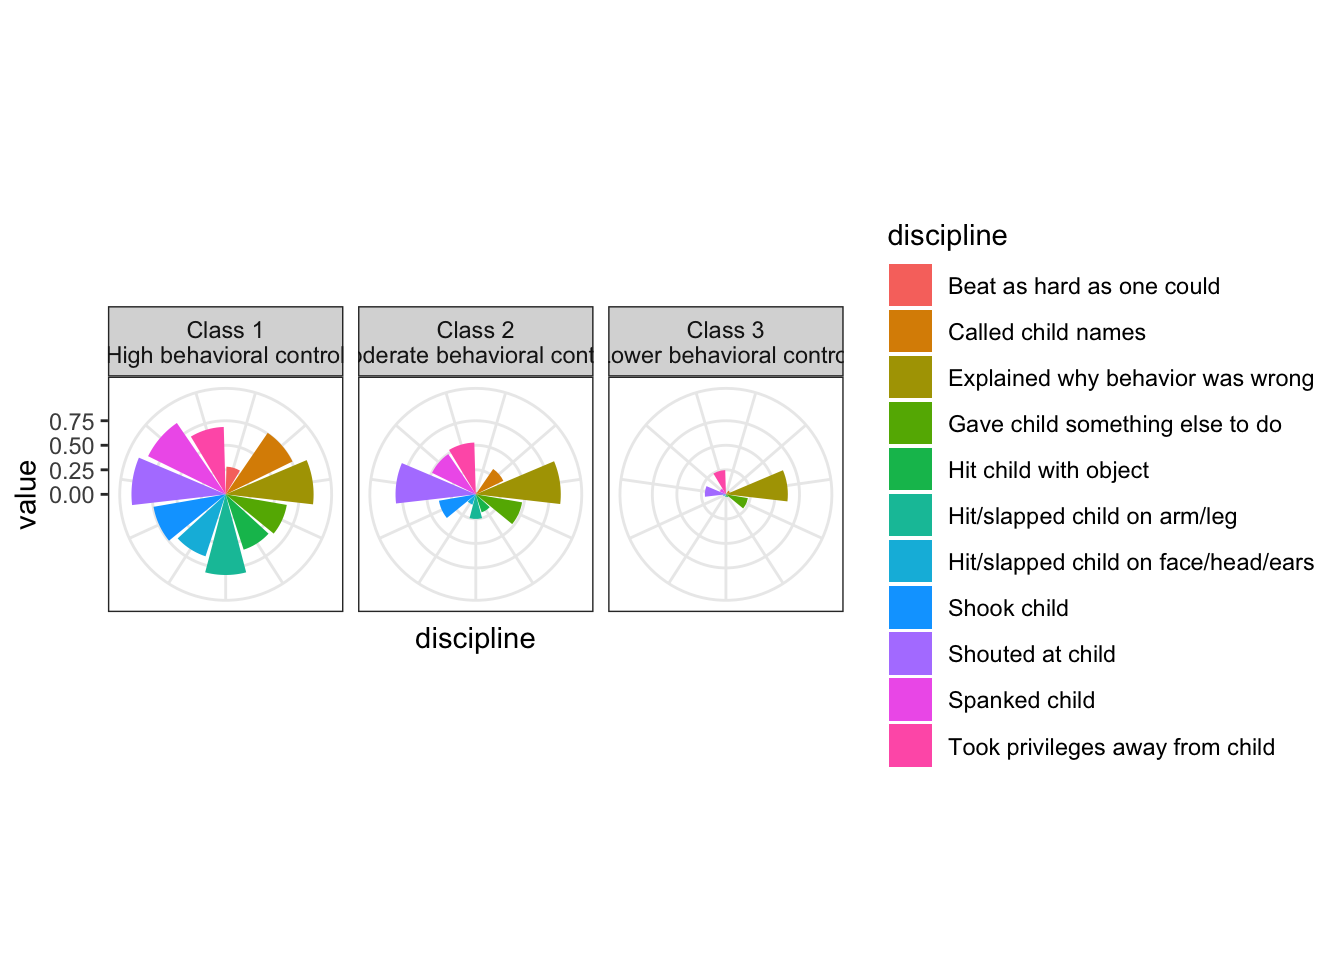
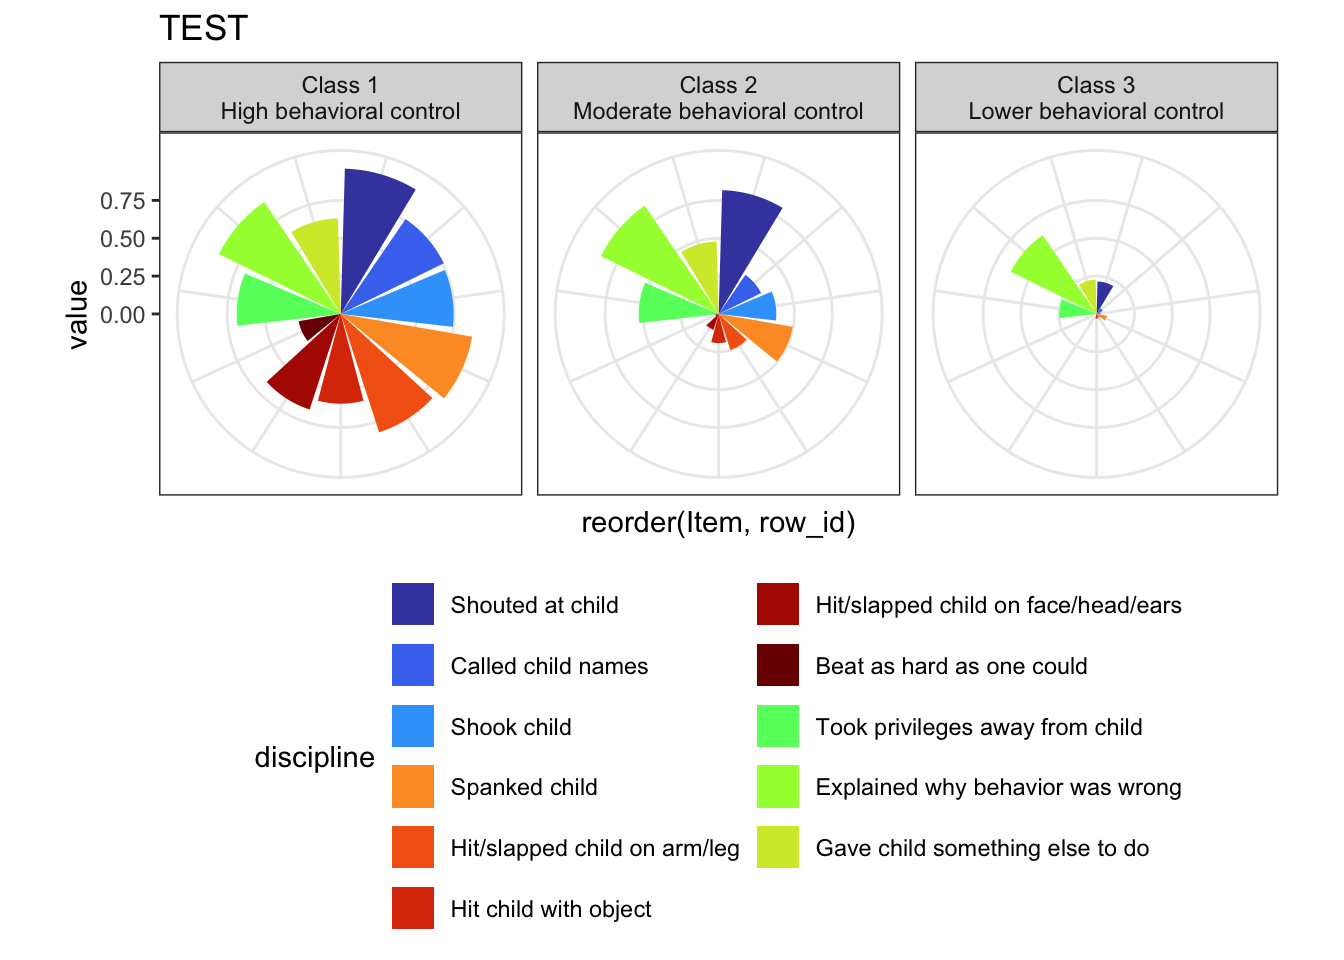
content updates

Changed region(s): [[0.0, 0.0, 0.9688, 0.9688]]

diff --git a/patterns/patterns.html b/patterns/patterns.html
@@ -103,7 +103,7 @@ pre > code.sourceCode > span > a:first-child::before { text-decoration: underlin
 <span id="cb1-2"><a href="#cb1-2" aria-hidden="true" tabindex="-1"></a></span>
 <span id="cb1-3"><a href="#cb1-3" aria-hidden="true" tabindex="-1"></a><span class="fu">library</span>(tidyr) <span class="co"># tidy data</span></span>
 <span id="cb1-4"><a href="#cb1-4" aria-hidden="true" tabindex="-1"></a></span>
-<span id="cb1-5"><a href="#cb1-5" aria-hidden="true" tabindex="-1"></a><span class="fu">library</span>(dplyr) <span class="co"># for pipe %&gt;%</span></span></code><button title="Copy to Clipboard" class="code-copy-button"><i class="bi"></i></button></pre></div>
+<span id="cb1-5"><a href="#cb1-5" aria-hidden="true" tabindex="-1"></a><span class="fu">library</span>(dplyr) <span class="co"># data wrangling, and for pipe %&gt;%</span></span></code><button title="Copy to Clipboard" class="code-copy-button"><i class="bi"></i></button></pre></div>
 <div class="cell-output cell-output-stderr">
 <pre><code>
 Attaching package: 'dplyr'</code></pre>
@@ -123,30 +123,69 @@ Attaching package: 'dplyr'</code></pre>
 <div class="cell">
 <div class="sourceCode cell-code" id="cb6"><pre class="sourceCode r code-with-copy"><code class="sourceCode r"><span id="cb6-1"><a href="#cb6-1" aria-hidden="true" tabindex="-1"></a>patterns <span class="ot">&lt;-</span> <span class="fu">read_csv</span>(<span class="st">"patterns.csv"</span>)</span></code><button title="Copy to Clipboard" class="code-copy-button"><i class="bi"></i></button></pre></div>
 <div class="cell-output cell-output-stderr">
-<pre><code>Rows: 3 Columns: 12
+<pre><code>Rows: 11 Columns: 4
 ── Column specification ────────────────────────────────────────────────────────
 Delimiter: ","
-chr  (1): name
-dbl (11): Shouted at child, Called child names, Shook child, Spanked child, ...
+chr (1): Item
+dbl (3): Class 1
+High behavioral control, Class 2
+Moderate behavioral contro...
 
 ℹ Use `spec()` to retrieve the full column specification for this data.
 ℹ Specify the column types or set `show_col_types = FALSE` to quiet this message.</code></pre>
 </div>
+<div class="sourceCode cell-code" id="cb8"><pre class="sourceCode r code-with-copy"><code class="sourceCode r"><span id="cb8-1"><a href="#cb8-1" aria-hidden="true" tabindex="-1"></a>patterns <span class="ot">&lt;-</span> patterns <span class="sc">%&gt;%</span></span>
+<span id="cb8-2"><a href="#cb8-2" aria-hidden="true" tabindex="-1"></a>  <span class="fu">mutate</span>(<span class="at">row_id =</span> <span class="fu">row_number</span>())</span></code><button title="Copy to Clipboard" class="code-copy-button"><i class="bi"></i></button></pre></div>
 </div>
 <div class="cell">
-<div class="sourceCode cell-code" id="cb8"><pre class="sourceCode r code-with-copy"><code class="sourceCode r"><span id="cb8-1"><a href="#cb8-1" aria-hidden="true" tabindex="-1"></a>patterns <span class="sc">%&gt;%</span> </span>
-<span id="cb8-2"><a href="#cb8-2" aria-hidden="true" tabindex="-1"></a>  <span class="fu">pivot_longer</span>(<span class="sc">!</span>name, </span>
-<span id="cb8-3"><a href="#cb8-3" aria-hidden="true" tabindex="-1"></a>               <span class="at">names_to =</span> <span class="st">"discipline"</span>, </span>
-<span id="cb8-4"><a href="#cb8-4" aria-hidden="true" tabindex="-1"></a>               <span class="at">values_to =</span> <span class="st">"value"</span>) <span class="sc">%&gt;%</span></span>
-<span id="cb8-5"><a href="#cb8-5" aria-hidden="true" tabindex="-1"></a>  <span class="fu">ggplot</span>(<span class="fu">aes</span>(<span class="at">x =</span> discipline, </span>
-<span id="cb8-6"><a href="#cb8-6" aria-hidden="true" tabindex="-1"></a>             <span class="at">y =</span> value,</span>
-<span id="cb8-7"><a href="#cb8-7" aria-hidden="true" tabindex="-1"></a>             <span class="at">fill =</span> discipline)) <span class="sc">+</span> </span>
-<span id="cb8-8"><a href="#cb8-8" aria-hidden="true" tabindex="-1"></a>  <span class="co"># geom_point() +</span></span>
-<span id="cb8-9"><a href="#cb8-9" aria-hidden="true" tabindex="-1"></a>  <span class="fu">geom_col</span>() <span class="sc">+</span></span>
-<span id="cb8-10"><a href="#cb8-10" aria-hidden="true" tabindex="-1"></a>  <span class="fu">facet_wrap</span>(<span class="sc">~</span>name) <span class="sc">+</span></span>
-<span id="cb8-11"><a href="#cb8-11" aria-hidden="true" tabindex="-1"></a>  <span class="fu">coord_polar</span>(<span class="at">theta =</span> <span class="st">"x"</span>) <span class="sc">+</span></span>
-<span id="cb8-12"><a href="#cb8-12" aria-hidden="true" tabindex="-1"></a>  <span class="fu">theme_bw</span>() <span class="sc">+</span></span>
-<span id="cb8-13"><a href="#cb8-13" aria-hidden="true" tabindex="-1"></a>  <span class="fu">theme</span>(<span class="at">axis.text.x =</span> <span class="fu">element_blank</span>())</span></code><button title="Copy to Clipboard" class="code-copy-button"><i class="bi"></i></button></pre></div>
+<div class="sourceCode cell-code" id="cb9"><pre class="sourceCode r code-with-copy"><code class="sourceCode r"><span id="cb9-1"><a href="#cb9-1" aria-hidden="true" tabindex="-1"></a><span class="co"># library(scales)</span></span>
+<span id="cb9-2"><a href="#cb9-2" aria-hidden="true" tabindex="-1"></a></span>
+<span id="cb9-3"><a href="#cb9-3" aria-hidden="true" tabindex="-1"></a><span class="co"># show_col(pal_viridis(option = "turbo")(15))</span></span>
+<span id="cb9-4"><a href="#cb9-4" aria-hidden="true" tabindex="-1"></a></span>
+<span id="cb9-5"><a href="#cb9-5" aria-hidden="true" tabindex="-1"></a>patterns<span class="sc">$</span>Item <span class="ot">&lt;-</span> <span class="fu">factor</span>(patterns<span class="sc">$</span>Item)</span>
+<span id="cb9-6"><a href="#cb9-6" aria-hidden="true" tabindex="-1"></a></span>
+<span id="cb9-7"><a href="#cb9-7" aria-hidden="true" tabindex="-1"></a>patterns<span class="sc">$</span>Item <span class="ot">&lt;-</span> <span class="fu">factor</span>(patterns<span class="sc">$</span>Item, </span>
+<span id="cb9-8"><a href="#cb9-8" aria-hidden="true" tabindex="-1"></a>                        <span class="at">levels =</span> <span class="fu">c</span>(<span class="st">"Shouted at child"</span>, </span>
+<span id="cb9-9"><a href="#cb9-9" aria-hidden="true" tabindex="-1"></a>                                   <span class="st">"Called child names"</span>, </span>
+<span id="cb9-10"><a href="#cb9-10" aria-hidden="true" tabindex="-1"></a>                                   <span class="st">"Shook child"</span>, </span>
+<span id="cb9-11"><a href="#cb9-11" aria-hidden="true" tabindex="-1"></a>                                   <span class="st">"Spanked child"</span>,</span>
+<span id="cb9-12"><a href="#cb9-12" aria-hidden="true" tabindex="-1"></a>                                   <span class="st">"Hit/slapped child on arm/leg"</span>,</span>
+<span id="cb9-13"><a href="#cb9-13" aria-hidden="true" tabindex="-1"></a>                                   <span class="st">"Hit child with object"</span>,</span>
+<span id="cb9-14"><a href="#cb9-14" aria-hidden="true" tabindex="-1"></a>                                   <span class="st">"Hit/slapped child on face/head/ears"</span>,</span>
+<span id="cb9-15"><a href="#cb9-15" aria-hidden="true" tabindex="-1"></a>                                   <span class="st">"Beat as hard as one could"</span>,</span>
+<span id="cb9-16"><a href="#cb9-16" aria-hidden="true" tabindex="-1"></a>                                   <span class="st">"Took privileges away from child"</span>,</span>
+<span id="cb9-17"><a href="#cb9-17" aria-hidden="true" tabindex="-1"></a>                                   <span class="st">"Explained why behavior was wrong"</span>,</span>
+<span id="cb9-18"><a href="#cb9-18" aria-hidden="true" tabindex="-1"></a>                                   <span class="st">"Gave child something else to do"</span>))</span>
+<span id="cb9-19"><a href="#cb9-19" aria-hidden="true" tabindex="-1"></a></span>
+<span id="cb9-20"><a href="#cb9-20" aria-hidden="true" tabindex="-1"></a>patterns <span class="sc">%&gt;%</span> </span>
+<span id="cb9-21"><a href="#cb9-21" aria-hidden="true" tabindex="-1"></a>  <span class="fu">pivot_longer</span>(<span class="sc">!</span><span class="fu">c</span>(Item, row_id), </span>
+<span id="cb9-22"><a href="#cb9-22" aria-hidden="true" tabindex="-1"></a>               <span class="at">names_to =</span> <span class="st">"discipline"</span>, </span>
+<span id="cb9-23"><a href="#cb9-23" aria-hidden="true" tabindex="-1"></a>               <span class="at">values_to =</span> <span class="st">"value"</span>) <span class="sc">%&gt;%</span></span>
+<span id="cb9-24"><a href="#cb9-24" aria-hidden="true" tabindex="-1"></a>  <span class="fu">ggplot</span>(<span class="fu">aes</span>(<span class="at">x =</span> <span class="fu">reorder</span>(Item, row_id), </span>
+<span id="cb9-25"><a href="#cb9-25" aria-hidden="true" tabindex="-1"></a>             <span class="at">y =</span> value,</span>
+<span id="cb9-26"><a href="#cb9-26" aria-hidden="true" tabindex="-1"></a>             <span class="at">fill =</span> Item)) <span class="sc">+</span> </span>
+<span id="cb9-27"><a href="#cb9-27" aria-hidden="true" tabindex="-1"></a>  <span class="co"># geom_point() +</span></span>
+<span id="cb9-28"><a href="#cb9-28" aria-hidden="true" tabindex="-1"></a>  <span class="fu">geom_col</span>() <span class="sc">+</span></span>
+<span id="cb9-29"><a href="#cb9-29" aria-hidden="true" tabindex="-1"></a>  <span class="fu">facet_wrap</span>(<span class="sc">~</span>discipline) <span class="sc">+</span></span>
+<span id="cb9-30"><a href="#cb9-30" aria-hidden="true" tabindex="-1"></a>  <span class="fu">coord_polar</span>(<span class="at">theta =</span> <span class="st">"x"</span>) <span class="sc">+</span></span>
+<span id="cb9-31"><a href="#cb9-31" aria-hidden="true" tabindex="-1"></a>  <span class="fu">labs</span>(<span class="at">title =</span> <span class="st">"TEST"</span>) <span class="sc">+</span></span>
+<span id="cb9-32"><a href="#cb9-32" aria-hidden="true" tabindex="-1"></a>  <span class="co"># scale_fill_viridis_d(option = "turbo") +</span></span>
+<span id="cb9-33"><a href="#cb9-33" aria-hidden="true" tabindex="-1"></a>  <span class="fu">scale_fill_manual</span>(<span class="at">name =</span> <span class="st">"discipline"</span>, </span>
+<span id="cb9-34"><a href="#cb9-34" aria-hidden="true" tabindex="-1"></a>                    <span class="at">values =</span> <span class="fu">c</span>(<span class="st">"Shouted at child"</span> <span class="ot">=</span> <span class="st">"#4147ADFF"</span>,</span>
+<span id="cb9-35"><a href="#cb9-35" aria-hidden="true" tabindex="-1"></a>                               <span class="st">"Called child names"</span> <span class="ot">=</span> <span class="st">"#4777EFFF"</span>, </span>
+<span id="cb9-36"><a href="#cb9-36" aria-hidden="true" tabindex="-1"></a>                               <span class="st">"Shook child"</span> <span class="ot">=</span> <span class="st">"#39A4FBFF"</span>, </span>
+<span id="cb9-37"><a href="#cb9-37" aria-hidden="true" tabindex="-1"></a>                               <span class="st">"Spanked child"</span> <span class="ot">=</span> <span class="st">"#FE9B2DFF"</span>,</span>
+<span id="cb9-38"><a href="#cb9-38" aria-hidden="true" tabindex="-1"></a>                               <span class="st">"Hit/slapped child on arm/leg"</span> <span class="ot">=</span> <span class="st">"#F46516FF"</span>,</span>
+<span id="cb9-39"><a href="#cb9-39" aria-hidden="true" tabindex="-1"></a>                               <span class="st">"Hit child with object"</span> <span class="ot">=</span> <span class="st">"#DB3A07FF"</span>,</span>
+<span id="cb9-40"><a href="#cb9-40" aria-hidden="true" tabindex="-1"></a>                               <span class="st">"Hit/slapped child on face/head/ears"</span> <span class="ot">=</span> <span class="st">"#B21A01FF"</span>,</span>
+<span id="cb9-41"><a href="#cb9-41" aria-hidden="true" tabindex="-1"></a>                               <span class="st">"Beat as hard as one could"</span> <span class="ot">=</span> <span class="st">"#7A0403FF"</span>,</span>
+<span id="cb9-42"><a href="#cb9-42" aria-hidden="true" tabindex="-1"></a>                               <span class="st">"Took privileges away from child"</span> <span class="ot">=</span> <span class="st">"#62FC6BFF"</span>,</span>
+<span id="cb9-43"><a href="#cb9-43" aria-hidden="true" tabindex="-1"></a>                               <span class="st">"Explained why behavior was wrong"</span> <span class="ot">=</span> <span class="st">"#A2FC3CFF"</span>,</span>
+<span id="cb9-44"><a href="#cb9-44" aria-hidden="true" tabindex="-1"></a>                               <span class="st">"Gave child something else to do"</span> <span class="ot">=</span> <span class="st">"#D2E935FF"</span>)) <span class="sc">+</span></span>
+<span id="cb9-45"><a href="#cb9-45" aria-hidden="true" tabindex="-1"></a>  <span class="fu">theme_bw</span>() <span class="sc">+</span></span>
+<span id="cb9-46"><a href="#cb9-46" aria-hidden="true" tabindex="-1"></a>  <span class="fu">theme</span>(<span class="at">axis.text.x =</span> <span class="fu">element_blank</span>(),</span>
+<span id="cb9-47"><a href="#cb9-47" aria-hidden="true" tabindex="-1"></a>        <span class="at">legend.position =</span> <span class="st">"bottom"</span>) <span class="sc">+</span></span>
+<span id="cb9-48"><a href="#cb9-48" aria-hidden="true" tabindex="-1"></a>  <span class="fu">guides</span>(<span class="at">fill =</span> <span class="fu">guide_legend</span>(<span class="at">ncol =</span> <span class="dv">2</span>))</span></code><button title="Copy to Clipboard" class="code-copy-button"><i class="bi"></i></button></pre></div>
 <div class="cell-output-display">
 <div>
 <figure class="figure">
